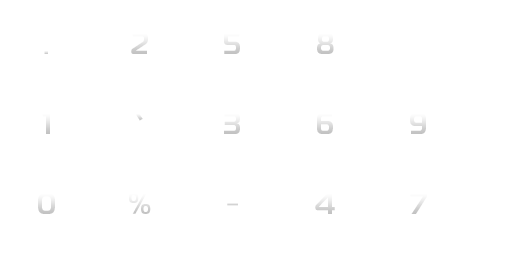
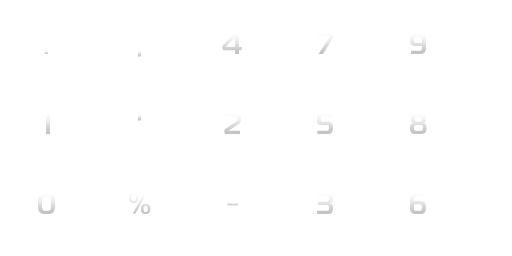
Подсчет рейтинга по новой формуле

diff --git a/influence/src/com/teremok/influence/controller/ChronicleController.java b/influence/src/com/teremok/influence/controller/ChronicleController.java
@@ -5,10 +5,14 @@ import com.badlogic.gdx.files.FileHandle;
 import com.badlogic.gdx.utils.XmlReader;
 import com.badlogic.gdx.utils.XmlWriter;
 import com.teremok.influence.model.Chronicle;
+import com.teremok.influence.model.FieldSize;
+import com.teremok.influence.model.player.PlayerType;
 import com.teremok.influence.util.Logger;
 
 import java.io.FileWriter;
 import java.io.IOException;
+import java.util.Collection;
+import java.util.Map;
 
 import static com.teremok.influence.model.Chronicle.*;
 import static com.teremok.influence.util.IOConstants.CHRONICLE_PATH;
@@ -31,7 +35,8 @@ public class ChronicleController {
                 .element("damage", damage)
                 .element("damageGet", damageGet)
                 .element("cellsConquered", cellsConquered)
-                .element("cellsLost", cellsLost);
+                .element("cellsLost", cellsLost)
+                .element("influence", influence);
 
             XmlWriter match = root.element("match");
 
@@ -58,6 +63,7 @@ public class ChronicleController {
 
                 played = root.getInt("played", 0);
                 won = root.getInt("won", 0);
+                influence = root.getInt("influence", 0);
                 damage = root.getInt("damage", 0);
                 damageGet = root.getInt("damageGet", 0);
                 cellsConquered = root.getInt("cellsConquered", 0);
@@ -74,5 +80,121 @@ public class ChronicleController {
                 exception.printStackTrace();
             }
         }
+    }
+
+    public static void matchStart() {
+        match.cellsLost = 0;
+        match.cellsConquered = 0;
+        match.damage = 0;
+        match.damageGet = 0;
+    }
+
+    public static void matchEnd(Map<Integer, PlayerType> players, FieldSize fieldSize, boolean isWin) {
+        damage += match.damage;
+        damageGet += match.damageGet;
+        cellsConquered += match.cellsConquered;
+        cellsLost += match.cellsLost;
+
+        played++;
+
+        if (isWin) {
+            won++;
+            Chronicle.influence += getWinInfluence(players.values(), fieldSize);
+        } else {
+            Chronicle.influence += getLoseInfluence(players.values(), fieldSize);
+        }
+
+        clearMatchScores();
+
+        ChronicleController.save();
+    }
+
+    public static void clearMatchScores() {
+        match.damage = 0;
+        match.damageGet = 0;
+        match.cellsConquered = 0;
+        match.cellsLost = 0;
+    }
+
+    public static int getWinInfluence(Collection<PlayerType> players, FieldSize fieldSize) {
+        int score = 0;
+        float playerSum = 0;
+        for (PlayerType player : players) {
+            playerSum += getW(player);
+        }
+        playerSum *= Math.exp(1);
+
+        float fieldSum = getW(fieldSize) * (float)Math.exp(1);
+
+        float cellsSum = cellsConquered * (float)Math.exp(1);
+
+        score = (int)(playerSum + fieldSum + cellsSum);
+
+        return score;
+    }
+
+    public static int getLoseInfluence(Collection<PlayerType> players, FieldSize fieldSize) {
+        int score;
+        float playerSum = 0;
+        for (PlayerType player : players) {
+            playerSum += getW(player);
+        }
+        playerSum = (float) (-playerSum*Math.exp(1) + playerSum);
+
+        float fieldSum = -getW(fieldSize) * (float) Math.exp(1) + getW(fieldSize);
+
+        float cellsSum = - (cellsConquered + cellsLost) * (float)Math.exp(1);
+
+
+        score = (int) (playerSum + fieldSum + cellsSum);
+
+        return score;
+    }
+
+    private static float getW(PlayerType type) {
+        float ret = 0;
+        switch (type){
+            case Human:
+                ret = 0;
+                break;
+            case Random:
+                ret = 5;
+                break;
+            case Dummy:
+                ret = 10;
+                break;
+            case Lazy:
+                ret = 15;
+                break;
+            case Beefy:
+                ret = 30;
+                break;
+            case Smarty:
+                ret = 60;
+                break;
+            case Hunter:
+                ret = 100;
+                break;
+        }
+        return ret;
+    }
+
+    private static float getW(FieldSize size) {
+        float ret = 0;
+        switch (size){
+            case SMALL:
+                ret = 80;
+                break;
+            case NORMAL:
+                ret = 100;
+                break;
+            case LARGE:
+                ret = 50;
+                break;
+            case XLARGE:
+                ret = 30;
+                break;
+        }
+        return ret;
     }
 }

diff --git a/influence/src/com/teremok/influence/model/Match.java b/influence/src/com/teremok/influence/model/Match.java
@@ -1,9 +1,6 @@
 package com.teremok.influence.model;
 
-import com.teremok.influence.controller.FieldController;
-import com.teremok.influence.controller.MatchSaver;
-import com.teremok.influence.controller.ScoreController;
-import com.teremok.influence.controller.SettingsSaver;
+import com.teremok.influence.controller.*;
 import com.teremok.influence.model.player.HumanPlayer;
 import com.teremok.influence.model.player.Player;
 import com.teremok.influence.model.player.PlayerManager;
@@ -44,7 +41,7 @@ public class Match {
 
         pm.addPlayersFromMap(settings.players, fieldController);
 
-        Chronicle.matchStart();
+        ChronicleController.matchStart();
 
         scoreController.init();
         fieldController.updateLists();
@@ -80,7 +77,7 @@ public class Match {
         turn = 0;
         endSoundPlayed = false;
 
-        Chronicle.matchStart();
+        ChronicleController.matchStart();
 
         pm.addPlayersFromMap(settings.players, fieldController);
         pm.placeStartPositions();
@@ -117,7 +114,7 @@ public class Match {
                     MatchSaver.clearFile();
                     endSoundPlayed = true;
                     if (pm.getNumberOfHumans() == 1) {
-                        Chronicle.matchEnd(true);
+                        ChronicleController.matchEnd(Settings.gameSettings.players, Settings.gameSettings.fieldSize, true);
                     }
                     GameScreen.colorForBacklight = Drawer.getPlayerColor(pm.current());
                     FlurryHelper.logMatchEndEvent(FlurryHelper.END_REASON_WIN, turn);
@@ -128,7 +125,7 @@ public class Match {
                     MatchSaver.clearFile();
                     endSoundPlayed = true;
                     if (pm.getNumberOfHumans() == 1) {
-                        Chronicle.matchEnd(false);
+                        ChronicleController.matchEnd(Settings.gameSettings.players, Settings.gameSettings.fieldSize, false);
                     }
 
                     GameScreen.colorForBacklight = Drawer.getBacklightLoseColor();

diff --git a/influence/src/com/teremok/influence/model/Chronicle.java b/influence/src/com/teremok/influence/model/Chronicle.java
@@ -1,13 +1,13 @@
 package com.teremok.influence.model;
 
-import com.teremok.influence.controller.ChronicleController;
-
 /**
  * Created by Алексей on 19.05.2014
  */
 public class Chronicle {
     public static int played;
     public static int won;
+
+    public static int influence;
 
     public static int damage;
     public static int damageGet;
@@ -22,41 +22,7 @@ public class Chronicle {
         public static int cellsLost;
     }
 
-    public static void init() {
-        ChronicleController.load();
-    }
-
-    public static void matchStart() {
-        match.cellsLost = 0;
-        match.cellsConquered = 0;
-        match.damage = 0;
-        match.damageGet = 0;
-    }
-
-    public static void matchEnd(boolean won) {
-        Chronicle.played++;
-        if (won) {
-            Chronicle.won++;
-        }
-
-        damage += match.damage;
-        damageGet += match.damageGet;
-        cellsConquered += match.cellsConquered;
-        cellsLost += match.cellsLost;
-
-        match.damage = 0;
-        match.damageGet = 0;
-        match.cellsConquered = 0;
-        match.cellsLost = 0;
-
-        ChronicleController.save();
-    }
-
     public static int getWinRate() {
         return played == 0 ?  0 : won*100/played;
-    }
-
-    public static int getInfluence() {
-        return played*100 - (played-won)*100 + cellsConquered*50 - cellsLost*50 + damage - damageGet;
     }
 }

diff --git a/influence/src/com/teremok/influence/util/TextureNumberFactory.java b/influence/src/com/teremok/influence/util/TextureNumberFactory.java
@@ -19,6 +19,7 @@ public class TextureNumberFactory {
     private final int POINT_DIGIT = 11;
     private final int QUOTE_DIGIT = 12;
     private final int MINUS_DIGIT = 13;
+    private final int COMMA_DIGIT = 14;
 
     private final int LEFT_DIGIT_SIDE = 1;
     private final int RIGHT_DIGIT_SIDE = 2;
@@ -43,8 +44,9 @@ public class TextureNumberFactory {
             { 9, 37, 38},
             { 10, 35, 35},
             { 11, 43, 44},
-            { 12, 42, 42},
-            { 13, 40, 40}
+            { 12, 44, 43},
+            { 13, 40, 40},
+            { 13, 44, 43}
     };
 
     Array<TextureAtlas.AtlasRegion> numbers;
@@ -103,7 +105,7 @@ public class TextureNumberFactory {
             int digit = ch - '0';
             if (digit < 0) {
                 if (Localizator.getLanguage().equals(Localizator.LANGUAGE_ENGLISH)) {
-                    digit = POINT_DIGIT;
+                    digit = COMMA_DIGIT;
                 } else {
                     digit = QUOTE_DIGIT;
                 }

diff --git a/influence/src/com/teremok/influence/screen/StartScreen.java b/influence/src/com/teremok/influence/screen/StartScreen.java
@@ -6,9 +6,9 @@ import com.badlogic.gdx.Input;
 import com.badlogic.gdx.graphics.Color;
 import com.badlogic.gdx.scenes.scene2d.InputEvent;
 import com.badlogic.gdx.scenes.scene2d.InputListener;
+import com.teremok.influence.controller.ChronicleController;
 import com.teremok.influence.controller.GestureController;
 import com.teremok.influence.controller.MatchSaver;
-import com.teremok.influence.model.Chronicle;
 import com.teremok.influence.model.Localizator;
 import com.teremok.influence.model.Settings;
 import com.teremok.influence.ui.Button;
@@ -40,7 +40,7 @@ public class StartScreen extends StaticScreen {
         super(game, filename);
         Settings.init();
         Logger.init();
-        Chronicle.init();
+        ChronicleController.load();
         AboutScreenChecker.check();
     }
 

diff --git a/influence/src/com/teremok/influence/screen/StatisticsScreen.java b/influence/src/com/teremok/influence/screen/StatisticsScreen.java
@@ -42,8 +42,8 @@ public class StatisticsScreen extends StaticScreen {
         number.centre();
         stage.addActor(number);
 
-        number = numberFactory.getNumber(Chronicle.getInfluence(), 240, 79, false);
-        number.setColor(Chronicle.getInfluence() == 0 ? numberFactory.BAD_COLOR : numberFactory.NORMAL_COLOR);
+        number = numberFactory.getNumber(Chronicle.influence, 240, 79, false);
+        number.setColor(Chronicle.influence < 1 ? numberFactory.BAD_COLOR : numberFactory.NORMAL_COLOR);
         number.centre();
         stage.addActor(number);
 
